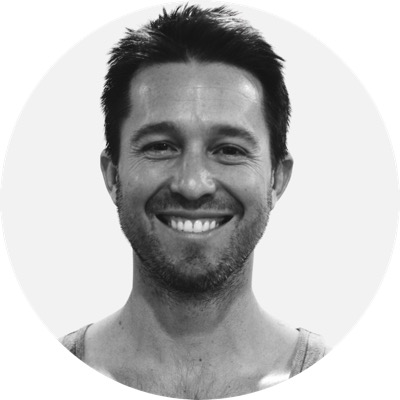
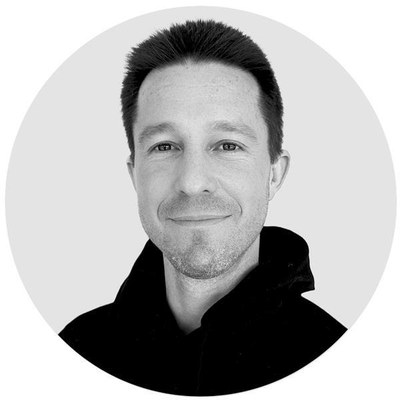
Add Arketa bios and class times to Our Team and use Alex's Arketa photo.
Claude-Session: https://claude.ai/code/session_01Bnp839VQAPyk1UVZY1TsH7

diff --git a/src/content/team.ts b/src/content/team.ts
@@ -19,6 +19,7 @@ export const ownership = [
     name: "Alex Jarboe",
     role: "Owner",
     bio: [
+      "**Take class with Alex:** **Sweat, Heat, & Beatz**: Mondays 5:45pm (SW); **FLOW 2**: Saturdays 10am (NW).",
       "Alex is a co-owner of APEX Gainesville. His path into ownership and leadership grew directly from lived experience—first as a student, then as a teacher, mentor, and builder of community.",
       "Originally from the East Coast, Alex moved to Colorado in 2003 seeking a deeper connection to nature and a slower, more intentional pace of life. In 2018, Alex and his wife Rae moved to Gainesville with a clear intention: to build on the heart-driven yoga pod foundation they built nationally, into a city that values connection, and to be closer to family. They put down roots in the Oakview neighborhood and committed to showing up not just as studio owners, but as active members of the Gainesville community.",
       "Alex's favorite class is APEX 1. The music, the slow pace, and the challenge is unparalleled. The gift he got from APEX teacher training has been forever rewarding and inspiring.",
@@ -28,13 +29,18 @@ export const ownership = [
     photo: "rae",
     name: "Rae Jarboe",
     role: "Owner",
-    bio: ["Coming Soon"],
+    bio: [
+      "**Take class with Rae:** **FLOW 2**: Tuesdays 8:45am (NW), Sundays 12pm (NW); **APEX 2**: Tuesdays 12pm (NW).",
+      "**What can students expect in your class?** Hot music, clear guidance, a balance of strength and flexibility, and fun!",
+      "**Which yoga pod class do you enjoy most and why?** I love all of our class styles and teach each one. It's so hard to choose when they all have such a perfect balance to one another. I choose them all!",
+      "**What type of music do you play in your classes?** Each class will vary, but I am always focused on bringing new, creative music each and every class.",
+      "**When you're not practicing yoga, what lights you up?** Travel, hanging with my dog, enjoying time with my husband, playing in nature, going to concerts, cooking, meditating, crafting, journaling, reading, and connecting with friends.",
+    ],
   }),
   personSchema.parse({
     photo: "dan",
     name: "Dan Carbonell",
     role: "Owner",
-    bio: ["Coming Soon"],
   }),
 ];
 
@@ -45,6 +51,7 @@ export const directors = [
     name: "Emily Tharp Pendley",
     role: "Director of Operations",
     bio: [
+      "**Take class with Emily:** **APEX 2**: Mondays 10:30am (NW), Thursdays 5pm (NW).",
       "Emily is the Director of Operations at APEX | yoga pod and a lead faculty member in the APEX and FIT Teacher Training Programs. She joined yoga pod in 2019 as a student and quickly fell in love with the challenge the classes provided and the community that the studio attracted. She took the first public FIT Teacher Training in 2019 while in graduate school at the University of Florida and continued her fitness education by attending one of the pre-opening APEX Teacher Trainings. During these trainings, Emily realized her passion for teaching group fitness classes and made the decision to follow her heart and pursue fitness as a career. Shortly after completing her Master's degree in early 2021, Emily began working full time at yoga pod, first as an Assistant Manager, then as the Northwest Studio Manager, eventually becoming the Regional Studio Director before being promoted to Director of Operations in 2025.",
       "Emily currently teaches FIT, Sweat, Heat, & Beatz, and APEX classes while also overseeing the entire regional operations of both studio locations, the APEX | yoga pod staff, facilitating teacher training, and heading multiple subcommittees including our Athlete Program, Events Team, and Retail Team. She considers this role to be the biggest blessing as it's a combination of everything she loves: movement, community, teaching, and having fun!",
       "Emily loves APEX because it's the perfect blend of gritty hard work, and infectious, effervescent energy. The work drives you to muscle failure, but in that failure you're invited to find the success of pushing yourself to a new edge, and that mental shift is worth its weight in gold to her. APEX 2 classes are her favorite for this reason — each sequence delivers a different experience that keeps her on her toes and challenges her brain and body.",
@@ -55,7 +62,11 @@ export const directors = [
     name: "Amanda Allen",
     role: "Program & Facilities Director",
     bio: [
-      "Coming soon",
+      "**Take class with Amanda:** **HOT 45**: Mondays 3:45pm (NW).",
+      "**What students should expect from your class?** A challenging yet centering experience. A space to move your body and quiet your mind.",
+      "**What classes you enjoy most and why?** I love HOT! As a 3rd generation Florida girl, I really like being warm :) I also enjoy the repetition of poses which allow me to find something new each time to deepen into. When I'm not taking HOT, you can find me in an APEX class!",
+      "**What type of music do you play in your classes?** I enjoy many different genres, but in my HOT classes I like to play a mix of acoustic, instrumental, nature sounds and a sprinkle of current beats.",
+      "**When you're not practicing yoga, what lights you up?** Spending time with my family, being outside, visiting a new national park and photographing all of the above!",
     ],
   }),
   personSchema.parse({
@@ -63,13 +74,24 @@ export const directors = [
     name: "Lindsey Guarisco",
     role: "Accounts Director",
     bio: [
-      "Coming soon",
+      "**Take class with Lindsey:** **FLOW 1**: Mondays 11:45am (NW).",
+      "**What can students expect in your class?** Students can expect to let go and just have fun in FLOW 2! There is always the option to challenge yourself to see what amazing things your body can do and how it moves! We synchronize our breath to our movement in a heated environment while listening to some tunes and getting a lil’ sweaty. Connecting our breath to our movement allows us to achieve a Flow State, a period of hyper-focus in which we find more energy and enjoyment! :)",
+      "**Which yoga pod class do you enjoy most and why?** I enjoy taking FLOW 2 and HOT! It’s always so fun to see the creativity and individuality present in the FLOW 2 sequences that our teachers make. I enjoy HOT because it really challenges me not only physically, but mentally as well.",
+      "**What type of music do you play in your classes?** I usually like to play chill beats, but I sometimes throw in some jazzy/popular mashups to make the classes just a little more groovy.",
+      "**When you're not practicing yoga, what lights you up?** When I’m not practicing yoga, doing anything with my dog, Roxy, lights me up! I love to be outside with her and go on long walks, or stay inside to cuddle with her and watch movies.",
     ],
   }),
   personSchema.parse({
     photo: "ellen-parks",
     name: "Ellen Parks",
     role: "Regional Assistant Director",
+    bio: [
+      "**Take class with Ellen:** **FIT**: Saturdays 8am (NW); **HOT**: Saturdays 5pm (SW), Sundays 5:30pm (NW); **FLOW 2**: Sundays 8am (NW).",
+      "**What can students expect in your class?** Students can expect a challenging, high energy practice that encourages both physical and mental strength. I aim to create a space where everyone feels welcomed and empowered to show up as they are, move with intention, and leave feeling more connected to themselves and their practice.",
+      "**Which APEX | yoga pod class do you enjoy most and why?** HOT, FLOW 2, or FIT. I appreciate the consistency and familiarity of the HOT sequence. FLOW offers a beautiful balance of movement and breath. And FIT, although a more recent passion, I find energizes and allows me to move in a way that feels authentic.",
+      "**What type of music do you play in your classes?** For HOT, you’ll hear anything from energizing songs to keep you moving during powerful poses and more meditative music as we wind down. For FIT, expect to hear hip-hop, rap, maybe a bit of EDM, and some throw backs!",
+      "**When you're not at the studio, what lights you up?** When I’m not at the studio, you’ll find me spending time with my friends around Gainesville, walking in Depot park, reading, or volunteering!",
+    ],
   }),
   personSchema.parse({
     photo: "lindsey-brown",
@@ -80,11 +102,25 @@ export const directors = [
     photo: "sarah-mcquatters",
     name: "Sarah McQuatters",
     role: "Regional Assistant Director + Retail Manager",
+    bio: [
+      "**Take class with Sarah:** **APEX 2**: Tuesdays 8am (SW), Wednesdays 6:30am (NW), Fridays 6:30am (NW); **FIT**: Tuesdays 9:30am (SW), Wednesdays 8am (NW).",
+      "**What can students expect in your class?** Students can expect a lighthearted and supportive environment where they can focus on improving form, strength, and body awareness. Each class offers a challenge to both beginners and long time practitioners! I like to emphasize mindful movement, alignment, and breath to help students create a deeper mind to body connection.",
+      "**Which APEX | yoga pod class do you enjoy most?** I have a special place in my heart for every class offered at APEX | yoga pod, but if I had to pick it would be APEX 2 or FIT! I love taking classes with upbeat music and plenty of opportunity to move my body.",
+      "**What type of music do you play in your class?** I play a mix of rap, hip-hop, pop and EDM/house. I love a good remix or throwback song! I also love getting song requests from students so I can include music they like too!",
+      "**When you’re not in the studio, what lights you up?** When I’m not in the studio I love spending quality time with family and friends. I also love going to concerts, the beach, and cooking!",
+    ],
   }),
   personSchema.parse({
     photo: "gia-saint-john",
     name: "Gia Saint John",
     role: "Marketing Manager",
+    bio: [
+      "**Take class with Gia:** **APEX 2**: Wednesdays 12pm (NW), Wednesdays 4:30pm (SW), Wednesdays 5:30pm (SW), Fridays 5pm (NW); **APEX 1**: Sundays 11:30am (NW).",
+      "**What can students expect in your class?** Students can expect a thoughtful, challenging class that emphasizes control, alignment, and mind-body connection. I focus on intentional movement — you’ll feel strong, supported, and aware of why you’re doing each exercise. My goal is for students to leave feeling energized, balanced, and more connected to their bodies.",
+      "**Which APEX | yoga pod class do you enjoy most and why?** My favorite class is APEX 2 because it strikes the perfect balance between challenge and control. It’s strong and athletic, but still deeply intentional — you’re building power while staying connected to your breath and alignment. I love that it pushes people just enough to feel accomplished without feeling overwhelmed.",
+      "**What type of music do you play in your classes?** I play mostly rap and hip-hop. I love music that keeps you hype and motivated from start to finish. In my practice, focusing on the music is a great way to push through more challenging exercises — it helps you stay present, confident, and mentally strong when things get tough. The right playlist turns effort into momentum.",
+      "**When you're not at the studio, what lights you up?** Outside the studio, I’m energized by travel, wellness, and creative projects. I love exploring new places, spending time in nature, and working on passion projects that blend health and lifestyle.",
+    ],
   }),
   personSchema.parse({
     photo: "patrick-moran",
@@ -100,6 +136,13 @@ export const directors = [
     photo: "audrey-lefler",
     name: "Audrey Lefler",
     role: "Karma Crew Manager",
+    bio: [
+      "**Take class with Audrey:** **HOT**: Mondays 6:30am (NW), Wednesdays 8:45am (SW).",
+      "**What can students expect in your class?** Students can expect a welcoming environment for all experience levels. I meet the challenges of a hot practice with a calming presence. My focus is on breath and alignment.",
+      "**Which APEX | yoga pod class do you enjoy most and why?** My favorite style of class is HOT because the set sequence allows me to find a meditative state quickly. I have recently fallen back in love with YIN.",
+      "**What type of music do you play in your classes?** Imagine yourself on the couch with a cup of tea on a cozy afternoon and the playlist that would go along with that moment. It starts soft and will build to the peak pose with more upbeat tunes and usually finish with instrumental music.",
+      "**When you're not at the studio, what lights you up?** When I am not practicing I enjoy reading, snuggling with my dogs and cats and relaxing at the beach. I will always be a lifelong student whether I am studying wine, practicing French or any new skill I find fascinating.",
+    ],
   }),
 ];
 
@@ -110,6 +153,7 @@ export const faculty = [
     name: "Kaleigh Eadens",
     role: "APEX Lead Teacher & Teacher Training Faculty",
     bio: [
+      "**Take class with Kaleigh:** **APEX 1**: Wednesdays 9am (SW); **APEX 2**: Wednesdays 10am (SW); **APEX Deep Space**: Wednesdays 11am (SW).",
       "Kaleigh has been with APEX as lead teacher and teacher training faculty since its inception in 2020. She also spearheaded and co-created our Deep Space class style. Prior to APEX, she completed her comprehensive Pilates instructor training program and became certified to teach across the full range of Pilates apparatus in 2014. In 2015, she graduated from the Florida School of Massage here in Gainesville and continues to practice bodywork.",
       "Over her ten years working with human bodies in the capacity of a movement instructor and bodyworker, Kaleigh has developed a strong understanding of and passion for human anatomy and leads the Anatomy portion of our APEX, yoga pod 200hr, HOT, and FIT teacher training programs.",
       "Her passion for teaching and practicing APEX is rooted in the unique challenge and empowerment the modality offers, and the incredible humans who dedicate themselves to such a rigorous practice within our community. There isn't an APEX style Kaleigh doesn't love to teach, but her favorite is a tie between APEX 2 and Deep Space. When she isn't in the studio, Kaleigh loves spending time with her husband Mitch and their two daughters, Isla and Nico.",
@@ -120,6 +164,7 @@ export const faculty = [
     name: "Kate Keskinen",
     role: "APEX Faculty",
     bio: [
+      "**Take class with Kate:** **APEX Foundations**: Wednesdays 5pm (NW); **HOT**: Wednesdays 6:15pm (NW); **APEX 2**: Thursdays 4pm (NW), Fridays 7:30am (NW), Fridays 10:30am (NW); **FLOW 2**: Thursdays 5:30pm (NW), Fridays 8:45am (NW).",
       "Kate has been teaching at APEX since 2020 and at our sister studio yoga pod since before the doors opened in 2018. She still remembers her first time on the Xformer: the intensity, the mental challenge, the shake, and how she was instantly hooked. APEX quickly became a cornerstone of her movement practice: powerful, energizing, and seriously fun. She loves how it builds strength and endurance while also providing balance for her gentler movement practices.",
       "Her favorite style to take and teach is Deep Space: breath-led, mobility-focused, and spacious in a way that feels like medicine. Since joining the APEX program team in summer 2023, Kate has been honored to support fellow teachers and help shape something that continues to evolve and inspire. The APEX community is vibrant and deeply dedicated to hard work, and Kate feels truly lucky to be part of it.",
     ],
